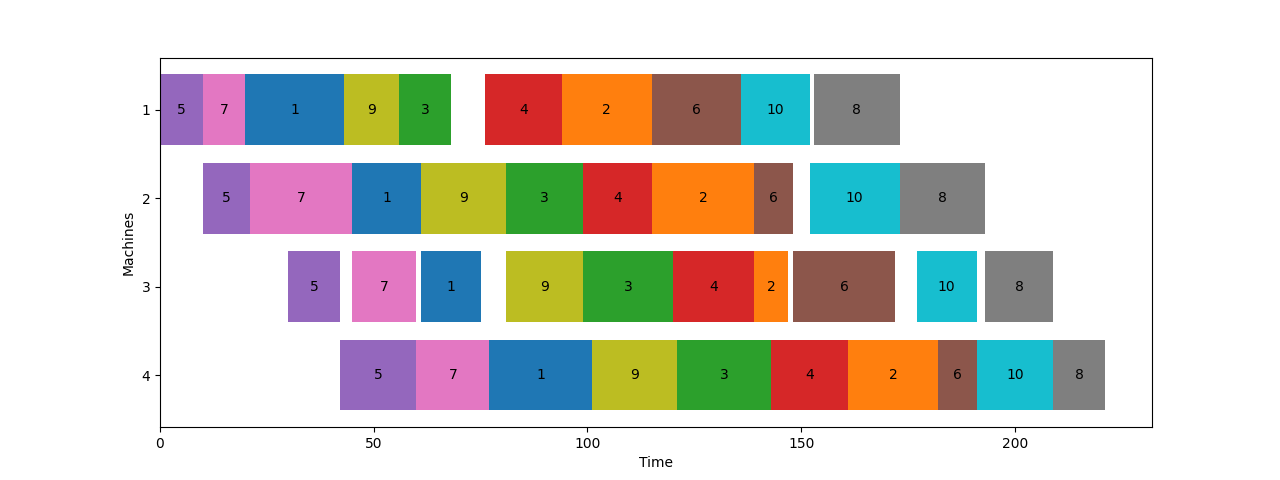
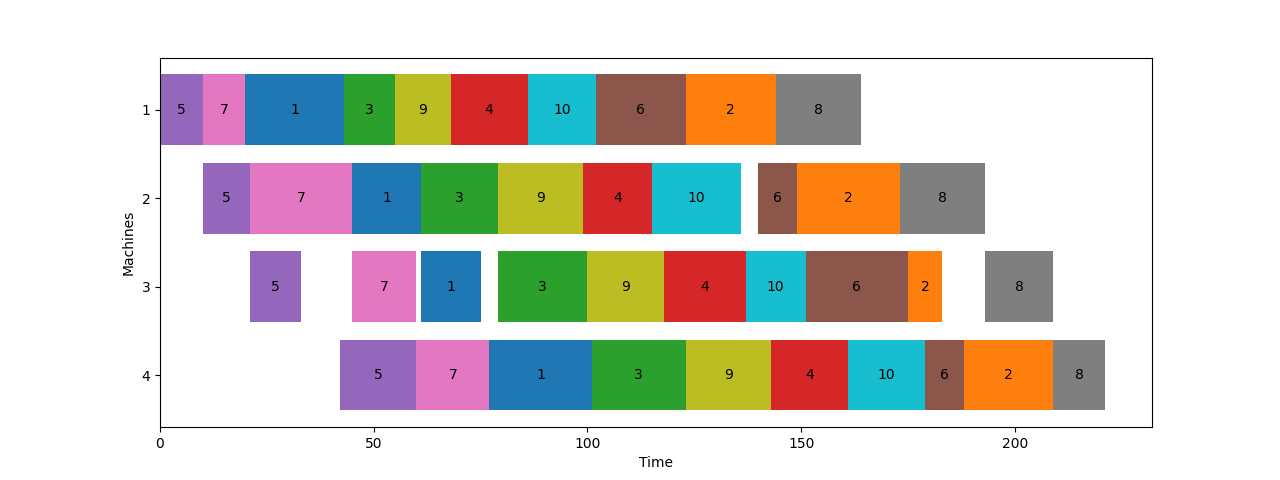
Ordered approach upgrade

Changed region(s): [[0.25, 0.1562, 0.8438, 0.875], [0.1875, 0.5, 0.2812, 0.6875]]

diff --git a/scheduler.py b/scheduler.py
@@ -53,7 +53,7 @@ class Instance:
 
 
 # Solves the problem exactly using binary ordering variables
-def solve(instance):
+def solve_ordering(instance):
     model = gb.Model()
 
     makespan_var = model.addVar(obj=1)
@@ -63,31 +63,47 @@ def solve(instance):
         for job in instance.jobs:
             starting_times_vars[(machine, job)] = model.addVar(name=f"starting time ({machine}, {job})")
 
-    # The job can only start if both the job and the machine are available.
+    # The job can only start if the job is finished on the previous machine.
     for machine, previous_machine in zip(instance.machines[1:], instance.machines[:-1]):
         for job in instance.jobs:
             model.addConstr(starting_times_vars[(machine, job)] >= starting_times_vars[(previous_machine, job)] + instance.processing_times[(previous_machine, job)])
 
     # Use the ordering variables with gurobi general constraints to enforce that jobs do not overlap
-    # TODO: For the first and last machine, the inequalities could be rewritten to equalities which gives better LP bounds
-    for machine in instance.machines:
+    order_vars = {}
+    for machine in instance.machines[1:-1]:
         for (job_1, job_2) in itertools.combinations(instance.jobs, 2):
-            order_var = model.addVar(name=f'order ({job_1}, {job_2})', vtype=gb.GRB.BINARY)
+            order_var = model.addVar(name=f'order ({machine}, {job_1}, {job_2})', vtype=gb.GRB.BINARY)
+            order_vars[(machine, job_1, job_2)] = order_var
+            order_vars[(machine, job_2, job_1)] = 1 - order_var
             model.addConstr((order_var == 1) >> (starting_times_vars[(machine, job_1)] + instance.processing_times[(machine, job_1)] <= starting_times_vars[(machine, job_2)]))
             model.addConstr((order_var == 0) >> (starting_times_vars[(machine, job_2)] + instance.processing_times[(machine, job_2)] <= starting_times_vars[(machine, job_1)]))
 
-    # TODO: the order of the first machine is the order of the second machine, and idem for the last two machines.
+    for (job_1, job_2) in itertools.combinations(instance.jobs, 2):
+        order_vars[(instance.machines[0], job_1, job_2)] = order_vars[(instance.machines[1], job_1, job_2)]
+        order_vars[(instance.machines[0], job_2, job_1)] = order_vars[(instance.machines[1], job_2, job_1)]
+        order_vars[(instance.machines[-1], job_1, job_2)] = order_vars[(instance.machines[-2], job_1, job_2)]
+        order_vars[(instance.machines[-1], job_2, job_1)] = order_vars[(instance.machines[-2], job_2, job_1)]
+
+    first_machine = instance.machines[0]
+    for job in instance.jobs:
+        model.addConstr(starting_times_vars[(first_machine, job)] == sum(order_vars[(first_machine, other_job, job)]*instance.processing_times[(first_machine, other_job)] for other_job in instance.jobs if other_job != job))
+
+    last_machine = instance.machines[-1]
+    for job in instance.jobs:
+        model.addConstr(starting_times_vars[(last_machine, job)] + instance.processing_times[(last_machine, job)] + sum(order_vars[(last_machine, job, other_job)] * instance.processing_times[(last_machine, other_job)] for other_job in instance.jobs if other_job != job) == makespan_var)
 
     # The makespan needs to be equal to the finishing time of the last job
     last_machine = instance.machines[-1]
     for job in instance.jobs:
         model.addConstr(makespan_var >= instance.processing_times[(last_machine, job)] + starting_times_vars[(last_machine, job)])
 
-    model.setParam('TimeLimit', 100)
+    model.setParam('TimeLimit', 10)
     model.optimize()  # Solve the model
 
     # Retrieve job starting times from the model
     starting_times = {}
+
+    # TODO: add cutting planes
 
     for machine in instance.machines:
         for job in instance.jobs:
@@ -214,7 +230,6 @@ def solve_permutation(instance):
     for machine in instance.machines:
         for job in instance.jobs:
             model.addConstr(sum(job_permutation_vars[(machine, job, virtual_job)] for virtual_job in instance.jobs) == 1)
-
     for machine in instance.machines:
         for virtual_job in instance.jobs:
             model.addConstr(sum(job_permutation_vars[(machine, job, virtual_job)] for job in instance.jobs) == 1)
@@ -271,6 +286,7 @@ def solve_permutation(instance):
     return starting_times, model.Status == gb.GRB.OPTIMAL  # If the model is optimal, the solution is optimal
 
 
+# Heuristic using the given (or standard) job order
 def basic_solution(instance, job_order=None):
     if job_order is None:
         job_order = instance.jobs[:]
@@ -323,7 +339,7 @@ def visualize(instance, starting_times, optimal=False):
 def main(input_path):
     instance = Instance(input_path)
     instance.print_lower_bounds()
-    starting_times, optimal = solve_permutation(instance)
+    starting_times, optimal = solve_ordering(instance)
     visualize(instance, starting_times, optimal=optimal)
 
 

diff --git a/run.py b/run.py
@@ -14,4 +14,4 @@ def main(n=None):
 
 
 if __name__ == '__main__':
-    main(0)
+    main()
